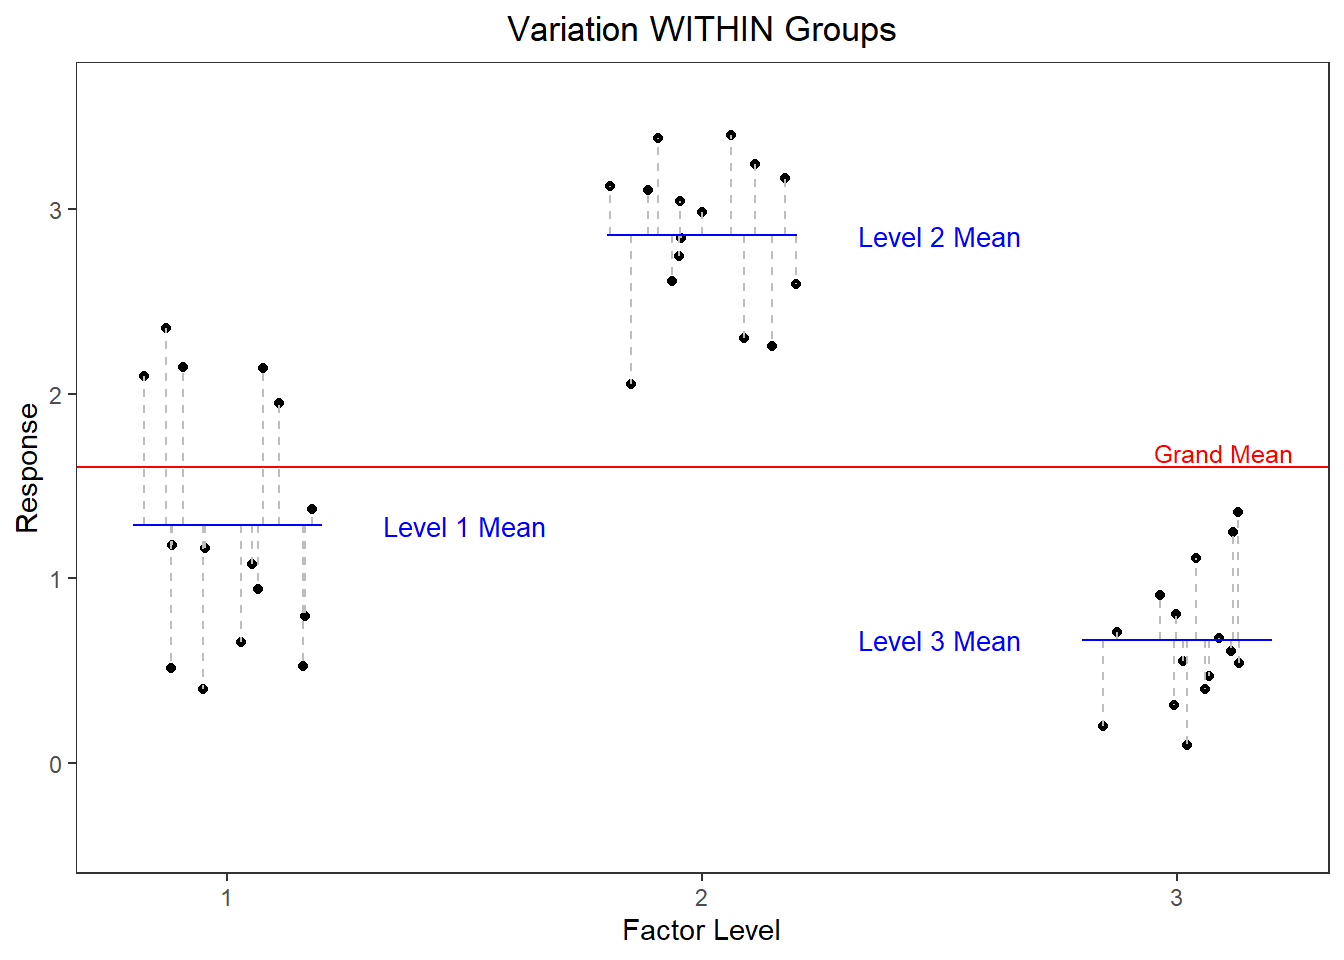
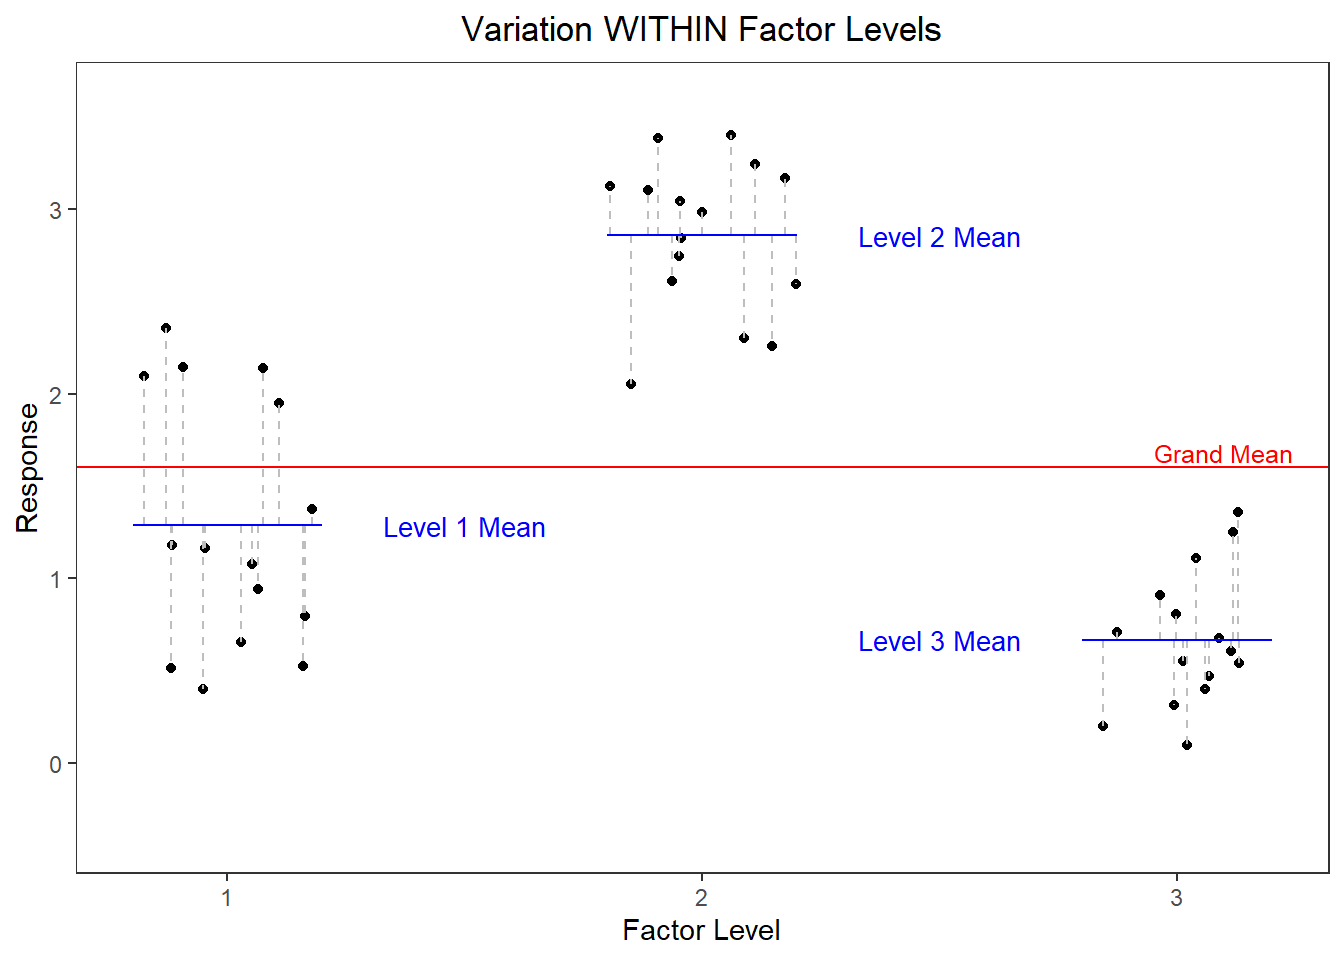
fixed charts in ANOVA-F-test

Changed region(s): [[0.3438, 0.0, 0.6875, 0.0625]]

diff --git a/docs/bf2.html b/docs/bf2.html
@@ -704,146 +704,146 @@ H_a: (\alpha\beta)_\text{ij} \ne 0 \text{ for some } ij
 <tbody>
 <tr class="odd">
 <td style="text-align: center;">Subject 1</td>
-<td style="text-align: center;">ultrasonic</td>
+<td style="text-align: center;">manual</td>
 <td style="text-align: center;">off</td>
-<td style="text-align: center;">5</td>
+<td style="text-align: center;">8</td>
 </tr>
 <tr class="even">
 <td style="text-align: center;">Subject 2</td>
-<td style="text-align: center;">manual</td>
+<td style="text-align: center;">ultrasonic</td>
 <td style="text-align: center;">off</td>
-<td style="text-align: center;">1</td>
+<td style="text-align: center;">21</td>
 </tr>
 <tr class="odd">
 <td style="text-align: center;">Subject 3</td>
-<td style="text-align: center;">oscillate</td>
+<td style="text-align: center;">ultrasonic</td>
 <td style="text-align: center;">name</td>
-<td style="text-align: center;">24</td>
+<td style="text-align: center;">20</td>
 </tr>
 <tr class="even">
 <td style="text-align: center;">Subject 4</td>
 <td style="text-align: center;">ultrasonic</td>
 <td style="text-align: center;">name</td>
-<td style="text-align: center;">4</td>
+<td style="text-align: center;">22</td>
 </tr>
 <tr class="odd">
 <td style="text-align: center;">Subject 5</td>
-<td style="text-align: center;">ultrasonic</td>
-<td style="text-align: center;">name</td>
-<td style="text-align: center;">3</td>
+<td style="text-align: center;">oscillate</td>
+<td style="text-align: center;">off</td>
+<td style="text-align: center;">1</td>
 </tr>
 <tr class="even">
 <td style="text-align: center;">Subject 6</td>
 <td style="text-align: center;">sonic</td>
-<td style="text-align: center;">name</td>
-<td style="text-align: center;">22</td>
+<td style="text-align: center;">off</td>
+<td style="text-align: center;">12</td>
 </tr>
 <tr class="odd">
 <td style="text-align: center;">Subject 7</td>
-<td style="text-align: center;">sonic</td>
-<td style="text-align: center;">off</td>
-<td style="text-align: center;">16</td>
-</tr>
-<tr class="even">
-<td style="text-align: center;">Subject 8</td>
-<td style="text-align: center;">oscillate</td>
-<td style="text-align: center;">off</td>
-<td style="text-align: center;">6</td>
-</tr>
-<tr class="odd">
-<td style="text-align: center;">Subject 9</td>
-<td style="text-align: center;">manual</td>
-<td style="text-align: center;">name</td>
-<td style="text-align: center;">12</td>
-</tr>
-<tr class="even">
-<td style="text-align: center;">Subject 10</td>
-<td style="text-align: center;">oscillate</td>
-<td style="text-align: center;">off</td>
-<td style="text-align: center;">9</td>
-</tr>
-<tr class="odd">
-<td style="text-align: center;">Subject 11</td>
-<td style="text-align: center;">ultrasonic</td>
-<td style="text-align: center;">off</td>
-<td style="text-align: center;">17</td>
-</tr>
-<tr class="even">
-<td style="text-align: center;">Subject 12</td>
-<td style="text-align: center;">oscillate</td>
-<td style="text-align: center;">off</td>
-<td style="text-align: center;">20</td>
-</tr>
-<tr class="odd">
-<td style="text-align: center;">Subject 13</td>
-<td style="text-align: center;">sonic</td>
-<td style="text-align: center;">off</td>
-<td style="text-align: center;">13</td>
-</tr>
-<tr class="even">
-<td style="text-align: center;">Subject 14</td>
-<td style="text-align: center;">sonic</td>
-<td style="text-align: center;">name</td>
-<td style="text-align: center;">10</td>
-</tr>
-<tr class="odd">
-<td style="text-align: center;">Subject 15</td>
-<td style="text-align: center;">sonic</td>
-<td style="text-align: center;">off</td>
-<td style="text-align: center;">11</td>
-</tr>
-<tr class="even">
-<td style="text-align: center;">Subject 16</td>
-<td style="text-align: center;">ultrasonic</td>
-<td style="text-align: center;">off</td>
-<td style="text-align: center;">2</td>
-</tr>
-<tr class="odd">
-<td style="text-align: center;">Subject 17</td>
-<td style="text-align: center;">oscillate</td>
-<td style="text-align: center;">name</td>
-<td style="text-align: center;">8</td>
-</tr>
-<tr class="even">
-<td style="text-align: center;">Subject 18</td>
-<td style="text-align: center;">manual</td>
-<td style="text-align: center;">name</td>
-<td style="text-align: center;">14</td>
-</tr>
-<tr class="odd">
-<td style="text-align: center;">Subject 19</td>
 <td style="text-align: center;">oscillate</td>
 <td style="text-align: center;">name</td>
 <td style="text-align: center;">7</td>
 </tr>
 <tr class="even">
-<td style="text-align: center;">Subject 20</td>
+<td style="text-align: center;">Subject 8</td>
+<td style="text-align: center;">sonic</td>
+<td style="text-align: center;">off</td>
+<td style="text-align: center;">11</td>
+</tr>
+<tr class="odd">
+<td style="text-align: center;">Subject 9</td>
+<td style="text-align: center;">sonic</td>
+<td style="text-align: center;">name</td>
+<td style="text-align: center;">4</td>
+</tr>
+<tr class="even">
+<td style="text-align: center;">Subject 10</td>
+<td style="text-align: center;">oscillate</td>
+<td style="text-align: center;">off</td>
+<td style="text-align: center;">19</td>
+</tr>
+<tr class="odd">
+<td style="text-align: center;">Subject 11</td>
+<td style="text-align: center;">ultrasonic</td>
+<td style="text-align: center;">name</td>
+<td style="text-align: center;">5</td>
+</tr>
+<tr class="even">
+<td style="text-align: center;">Subject 12</td>
+<td style="text-align: center;">ultrasonic</td>
+<td style="text-align: center;">off</td>
+<td style="text-align: center;">14</td>
+</tr>
+<tr class="odd">
+<td style="text-align: center;">Subject 13</td>
+<td style="text-align: center;">sonic</td>
+<td style="text-align: center;">name</td>
+<td style="text-align: center;">10</td>
+</tr>
+<tr class="even">
+<td style="text-align: center;">Subject 14</td>
+<td style="text-align: center;">sonic</td>
+<td style="text-align: center;">name</td>
+<td style="text-align: center;">24</td>
+</tr>
+<tr class="odd">
+<td style="text-align: center;">Subject 15</td>
 <td style="text-align: center;">manual</td>
 <td style="text-align: center;">off</td>
-<td style="text-align: center;">23</td>
+<td style="text-align: center;">9</td>
+</tr>
+<tr class="even">
+<td style="text-align: center;">Subject 16</td>
+<td style="text-align: center;">oscillate</td>
+<td style="text-align: center;">name</td>
+<td style="text-align: center;">17</td>
+</tr>
+<tr class="odd">
+<td style="text-align: center;">Subject 17</td>
+<td style="text-align: center;">manual</td>
+<td style="text-align: center;">off</td>
+<td style="text-align: center;">16</td>
+</tr>
+<tr class="even">
+<td style="text-align: center;">Subject 18</td>
+<td style="text-align: center;">ultrasonic</td>
+<td style="text-align: center;">name</td>
+<td style="text-align: center;">15</td>
+</tr>
+<tr class="odd">
+<td style="text-align: center;">Subject 19</td>
+<td style="text-align: center;">manual</td>
+<td style="text-align: center;">off</td>
+<td style="text-align: center;">3</td>
+</tr>
+<tr class="even">
+<td style="text-align: center;">Subject 20</td>
+<td style="text-align: center;">oscillate</td>
+<td style="text-align: center;">off</td>
+<td style="text-align: center;">6</td>
 </tr>
 <tr class="odd">
 <td style="text-align: center;">Subject 21</td>
 <td style="text-align: center;">sonic</td>
 <td style="text-align: center;">name</td>
-<td style="text-align: center;">15</td>
+<td style="text-align: center;">23</td>
 </tr>
 <tr class="even">
 <td style="text-align: center;">Subject 22</td>
-<td style="text-align: center;">ultrasonic</td>
-<td style="text-align: center;">name</td>
-<td style="text-align: center;">21</td>
+<td style="text-align: center;">manual</td>
+<td style="text-align: center;">off</td>
+<td style="text-align: center;">13</td>
 </tr>
 <tr class="odd">
 <td style="text-align: center;">Subject 23</td>
 <td style="text-align: center;">manual</td>
 <td style="text-align: center;">name</td>
-<td style="text-align: center;">19</td>
+<td style="text-align: center;">2</td>
 </tr>
 <tr class="even">
 <td style="text-align: center;">Subject 24</td>
-<td style="text-align: center;">manual</td>
-<td style="text-align: center;">off</td>
+<td style="text-align: center;">oscillate</td>
+<td style="text-align: center;">name</td>
 <td style="text-align: center;">18</td>
 </tr>
 </tbody>
@@ -2010,7 +2010,7 @@ Significant Interaction Effects
 <p>You then create the model using the <code>aov()</code> function. To see results of the F-test you can feed your model into a <code>summary()</code> or <code>anova()</code> function.</p>
 
 <div class="no-row-height column-margin column-container"><div class="">
-<p>When called on a model created with <code>aov()</code>, <code>summary()</code> and <code>anova()</code> functions give the same output with some slight differences in formatting. The <code>summary()</code> function is more general; it can take linear regression models created with <code>'lm()</code> as inputs, for example. The output provided by <code>summary()</code> will change based on the type of object it is called on. This is discussed in more detailed at the bottom of the <a href="./unbalanced.html">Unbalanced</a> page.</p>
+<p><code>summary()</code> and <code>anova()</code> functions give the same output with some slight differences in formatting when called on a model created with <code>aov()</code>. The <code>summary()</code> function is more general; it can also take linear regression models created with <code>'lm()</code> as inputs. The output provided by <code>summary()</code> will change based on the type of object it is called on. This is discussed in more detail at the bottom of the <a href="./unbalanced.html">Unbalanced</a> page.</p>
 </div></div><div class="cell">
 <div class="sourceCode cell-code" id="cb8"><pre class="sourceCode r code-with-copy"><code class="sourceCode r"><span id="cb8-1"><a href="#cb8-1" aria-hidden="true" tabindex="-1"></a>myaov <span class="ot">&lt;-</span> <span class="fu">aov</span>(Y <span class="sc">~</span> X1<span class="sc">*</span>X2, <span class="at">data=</span>YourDataSet)</span>
 <span id="cb8-2"><a href="#cb8-2" aria-hidden="true" tabindex="-1"></a><span class="fu">summary</span>(myaov)</span></code><button title="Copy to Clipboard" class="code-copy-button"><i class="bi"></i></button></pre></div>

diff --git a/docs/Anova_F-test.html b/docs/Anova_F-test.html
@@ -460,7 +460,7 @@ F = \frac{\text{Variation between factor levels}}{\text{Variation within factor 
 <div id="fig-between_within-1" class="quarto-figure quarto-figure-center anchored">
 <figure class="figure">
 <p><img src="Anova_F-test_files/figure-html/fig-between_within-1.png" class="img-fluid figure-img" data-ref-parent="fig-between_within" width="672"></p>
-<p></p><figcaption aria-hidden="true" class="figure-caption">(a) Factor Level Means</figcaption><p></p>
+<p></p><figcaption aria-hidden="true" class="figure-caption">(a) Deviations to Get MS Treatment Factor</figcaption><p></p>
 </figure>
 </div>
 </div>
@@ -468,7 +468,7 @@ F = \frac{\text{Variation between factor levels}}{\text{Variation within factor 
 <div id="fig-between_within-2" class="quarto-figure quarto-figure-center anchored">
 <figure class="figure">
 <p><img src="Anova_F-test_files/figure-html/fig-between_within-2.png" class="img-fluid figure-img" data-ref-parent="fig-between_within" width="672"></p>
-<p></p><figcaption aria-hidden="true" class="figure-caption">(b) Deviations Within Factor Levels</figcaption><p></p>
+<p></p><figcaption aria-hidden="true" class="figure-caption">(b) Deviations to Get MS Error</figcaption><p></p>
 </figure>
 </div>
 </div>
